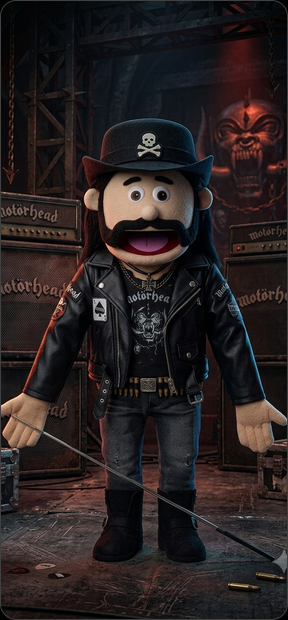
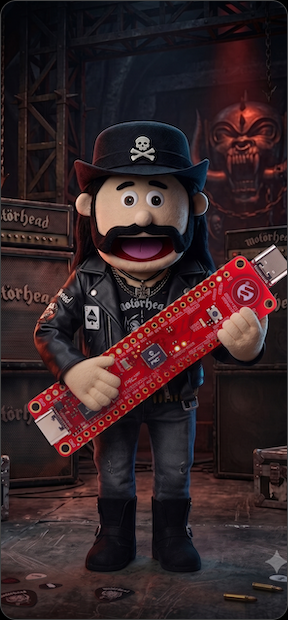
marvin: all eight System Info photo slots filled, and the tool stops dropping one
The project card's photo was being silently discarded: process_node_photos.py's
NODES list predates the guitar-pic card, and an unlisted name isn't reported as
missing — the loop only walks names it knows — so the card would have read blank
on hardware with nothing saying why. NODES now mirrors ui/node_art.c's PHOTO
table, all eight entries.

Every source arrived pre-framed portrait at 1408x3040, aspect 0.4632 against the
column's 0.4645, so these are processed with --fit cover: contain scales to 287px
wide and leaves a 1px zinc-900 stripe inside the frame, where cover crops ~4px of
height and fills the rect exactly.

Sources are committed at 2x the slot (576x1240, 5.5 MB) rather than full
resolution (42 MB), which keeps re-crop and fit-mode headroom without the repo
carrying a photo archive. Outputs are regenerated from those downscaled sources
so the committed inputs reproduce the committed outputs.

guitar.png is byte-identical for the second run in a row, confirming the pass is
idempotent over an untouched source. It stays the largest asset at 61% of
decode_one's 512 KiB SCRATCH_BYTES; the new outputs run 201-302 KiB.

diff --git a/tools/node-photos/process_node_photos.py b/tools/node-photos/process_node_photos.py
@@ -32,7 +32,7 @@ the rest in the card's own zinc-900, which keeps the board recognizable. Use
 `--fit cover` for a photo already framed portrait.
 
 Node names must match ui/node_art.c's PHOTO table:
-    marvin fauxmote guitar fretboard beatbox lemmy lightshow
+    marvin fauxmote guitar fretboard beatbox lemmy lightshow guitar-pic
 
 Usage:
     cd tools/node-photos
@@ -52,8 +52,10 @@ from PIL import Image, ImageDraw, ImageOps
 SLOT_W = 288
 SLOT_H = 620
 
-# Must match the PHOTO table in firmware/marvin/default/src/ui/node_art.c
-NODES = ["marvin", "fauxmote", "guitar", "fretboard", "beatbox", "lemmy", "lightshow"]
+# Must match the PHOTO table in firmware/marvin/default/src/ui/node_art.c. "guitar-pic"
+# is the whole-rig shot for the project card, which is not a node.
+NODES = ["marvin", "fauxmote", "guitar", "fretboard", "beatbox", "lemmy", "lightshow",
+         "guitar-pic"]
 
 # The card fill the letterbox blends into (Tailwind zinc-900, SCHEME_FILL_ZINC_900).
 ZINC_900 = (24, 24, 27)

diff --git a/firmware/marvin/docs/journal.md b/firmware/marvin/docs/journal.md
@@ -4,6 +4,17 @@ Running log of planning, decisions, open questions, and work-in-progress for mar
 
 ---
 
+**2026-08-07 — all eight photo slots filled, and the tool was silently ignoring one of them. NOT ON HARDWARE YET.** Greg supplied the remaining six renders plus the whole-rig shot; no firmware change was needed, since `PHOTO_N` derives from the table.
+
+- **`process_node_photos.py`'s `NODES` list never gained `guitar-pic`**, so the project card's photo was dropped on the floor with no diagnostic — it isn't a node, and the tool's list was written before the card existed. The `PHOTO` table in `ui/node_art.c` is the contract and the tool now mirrors all eight entries. Worth noting the failure shape: an unlisted name is not reported as "no source for", because the loop only walks names it knows, so the card would just have read blank on hardware with nothing anywhere saying why.
+- **`--fit cover` for every source, and `contain` would have been visibly wrong.** All the new renders arrived pre-framed portrait at 1408×3040 — aspect 0.4632 against the column's 0.4645 — so `contain` scales to **287** px wide and leaves a 1 px zinc-900 stripe down one edge of the frame; `cover` crops ~4 px of height instead and fills the rect exactly. This is the case the README's "already framed portrait" note is for.
+- **`marvin.png` came in RGBA, which the pipeline flattens rather than composites.** Its alpha was uniformly 255 so nothing was lost, but that was checked, not assumed: `render()` does `convert("RGB")`, which **discards** an alpha channel without compositing it over anything, so a source with real transparency would land with its transparent regions showing whatever garbage RGB sat under the alpha. If a future source has a non-opaque alpha it needs an explicit composite onto `ZINC_900` first.
+- **The "keep the originals in the repo" rule from the 2026-08-06 (night) entry is now bounded to 2× the slot, not full resolution.** Six full-res renders are 42 MB and `.git` is already 596 MB, so the committed sources are `576×1240` (5.5 MB total) — headroom for a re-crop or a fit-mode change, which is what that rule was actually for, without the repo carrying a photo archive. The full-res files are **not** in history; they exist only on Greg's disk. `guitar.png` (704×1520) and `lemmy.png` (288×620) were left as-is, being already small and already committed — note `lemmy`'s replacement source is now exactly slot-sized, so it has **no** re-fit headroom at all.
+- **Outputs were regenerated from the downscaled sources**, not kept from the full-res pass, so the committed inputs actually reproduce the committed outputs. The quality difference is nil — a 2× LANCZOS box down to 288×620 versus 4.9×.
+- **`guitar.png` came back byte-identical at 322,163 B for the second time**, re-confirming the pass is idempotent over an untouched source. It remains the largest asset and the one to watch: **61% of `decode_one`'s 512 KiB `SCRATCH_BYTES`**. The seven new outputs run 201–302 KiB, all comfortably under, and overshooting is a silent blank frame behind a `NODEART:` warning.
+
+---
+
 **2026-08-06 (night, tenth) — System Info gains an eighth card for the project itself, and the grid goes 4+4. NOT BUILT YET; needs the design Generate already done.** Greg: *"add one more card for the overall project guitar-pic to top left (so 4 in top row)"*.
 
 - **The card is not a node, and the code says so.** `NODE_BUS_N` (7) is the boards on the bus, held in bus order for the BUS POSITION rail; `NODE_N` (8) adds the project at index `PROJECT`. It has no PLCA id, so it never appears on the rail, and its photo key is `ID_PROJECT` = `0xFF` — deliberately outside the id space rather than the next id up, since "8" would read like a ninth node.

diff --git a/tools/node-photos/README.md b/tools/node-photos/README.md
@@ -16,8 +16,11 @@ Node names must match the `PHOTO` table in
 `firmware/marvin/default/src/ui/node_art.c`:
 
 ```
-marvin  fauxmote  guitar  fretboard  beatbox  lemmy  lightshow
+marvin  fauxmote  guitar  fretboard  beatbox  lemmy  lightshow  guitar-pic
 ```
+
+`guitar-pic` is the whole-rig shot for the project card rather than a node — the
+firmware keys it off `0xFF`, outside the T1S id space.
 
 ## The frame is baked in
 
